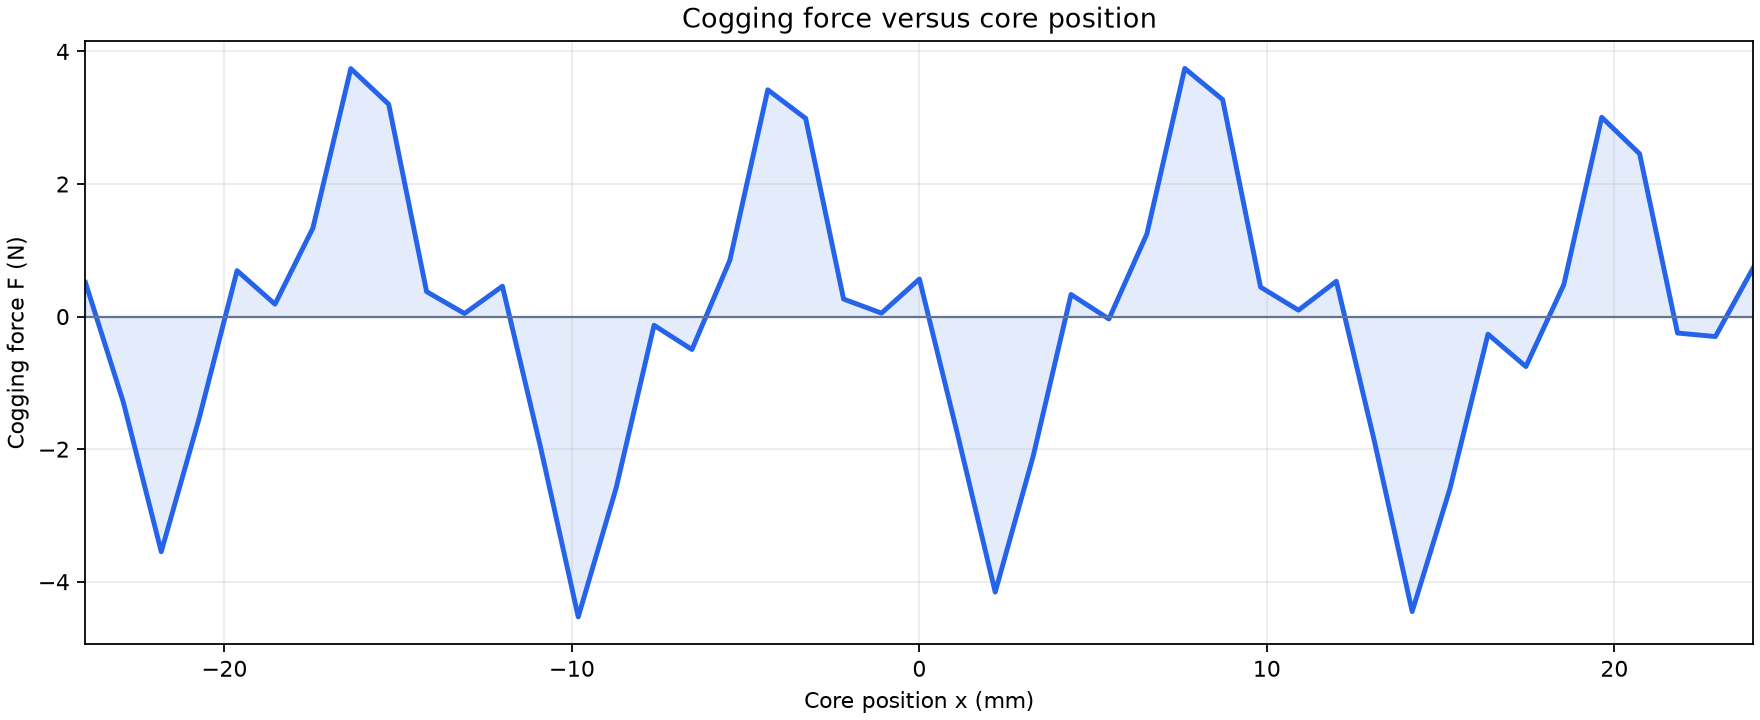
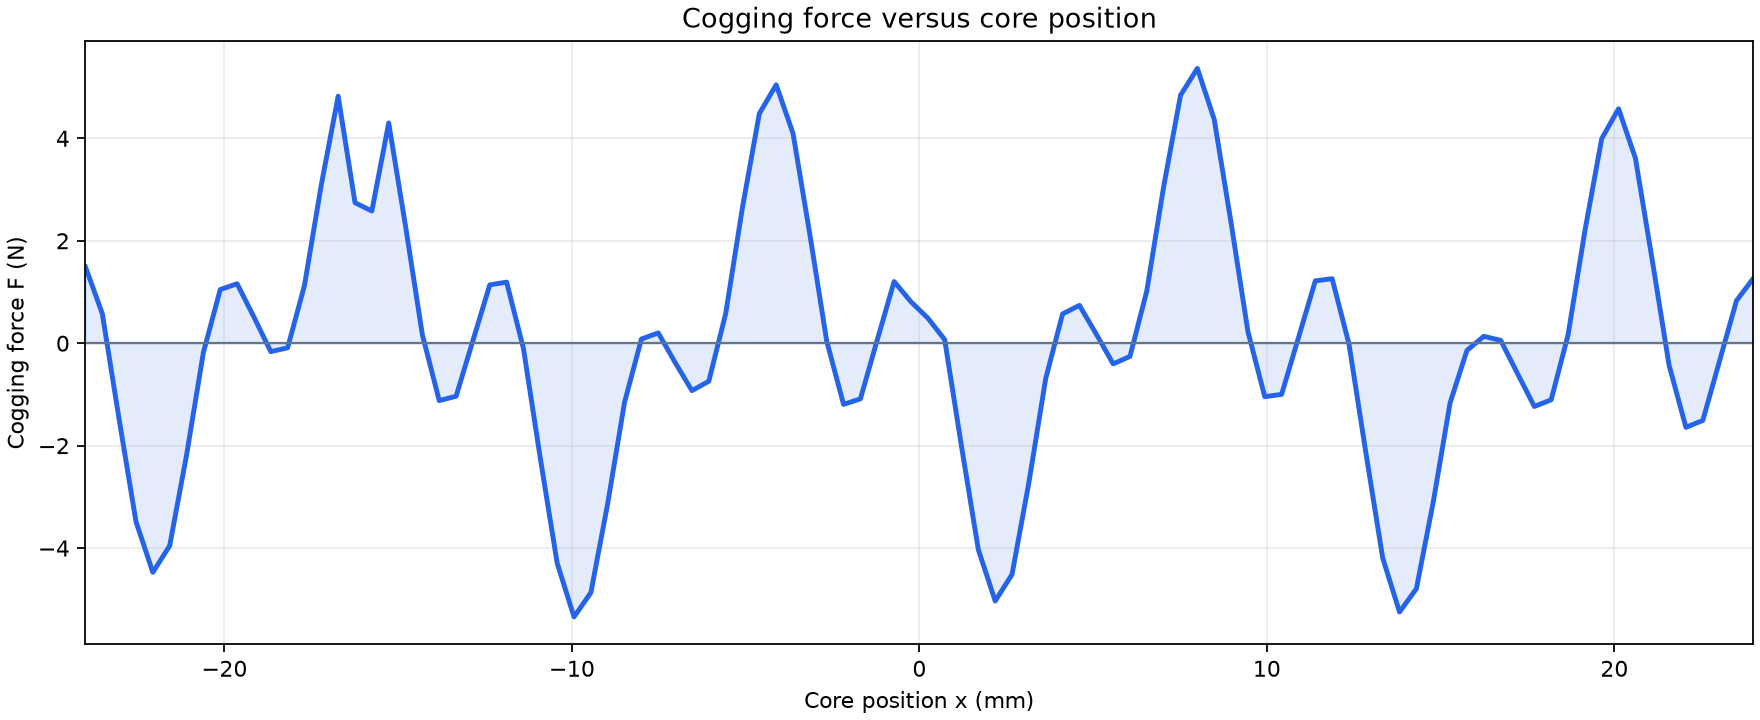
feat: increase cogging animations to 200 frames

diff --git a/halbach_field_n52.html b/halbach_field_n52.html
@@ -47,7 +47,7 @@
     <div class="note">6:6 为 24 mm 磁极对内的 +Z、-Y、-Z、+Y 四段基础 Halbach。独立的周期齿槽力估算采用 DXF 铁芯轮廓并连续叠厚积分：零斜极为 1.726 N 峰峰值，14.04° 为约 0.193 N，26.565° 为理想线性周期模型约 0.0010 N。它优先提升单侧磁通。</div>
     <div class="note"><span class="key">斜极取舍</span>：14.04° 的磁场基波系数约 0.955，适合推力优先；26.565° 的系数约 0.827，适合齿槽力优先。实际残余力由 B-H 曲线、端部磁通、加工与装配误差决定。</div>
     <div class="note">色图由二维磁矢势方程求解：DXF 闭合轮廓在网格内赋予 35W300 的线性 μr≈4000，气隙为 1 mm，磁铁厚度为 3 mm。铁芯绕其中心旋转 180°，齿顶位于磁铁顶面上方 1 mm。求解域随五组磁铁阵列扩展，四周采用远离模型的固定磁矢势边界；铁芯位于画面中心，左右侧磁铁单元数相同，所有磁铁块均绘制轮廓。</div>
-    <div class="note">每种磁铁排布均提供 90 帧动画，展示铁芯按 -24 mm、+24 mm、-24 mm 的顺序往复运动。白色箭头表示计算得到的齿槽力方向，箭头长度随力值绝对值变化，箭头上方显示当前位置与瞬时齿槽力。动画下方曲线给出齿槽力 F 随位置 x 的变化。</div>
+    <div class="note">每种磁铁排布均提供 200 帧动画，展示铁芯按 -24 mm、+24 mm、-24 mm 的顺序往复运动。曲线使用 100 个单程位置点计算。白色箭头表示计算得到的齿槽力方向，箭头长度随力值绝对值变化，箭头上方显示当前位置与瞬时齿槽力。动画下方曲线给出齿槽力 F 随位置 x 的变化。</div>
   </div>
 </main>
 <script type="application/json">

diff --git a/cogging_fdm.py b/cogging_fdm.py
@@ -20,7 +20,9 @@ SINGLE_CORE = "--single-core" in sys.argv
 CORE_OTHER_SIDE = "--core-other-side" in sys.argv
 NO_SIDE = "--no-side" in sys.argv
 ANIMATE = "--animate" in sys.argv
-ANIMATION_FRAMES = int(sys.argv[sys.argv.index("--frames") + 1]) if "--frames" in sys.argv else 90
+ANIMATION_FRAMES = int(sys.argv[sys.argv.index("--frames") + 1]) if "--frames" in sys.argv else 200
+if ANIMATION_FRAMES < 4 or ANIMATION_FRAMES % 2:
+    raise SystemExit("--frames must be an even integer of at least 4")
 MAGNET_GROUPS = int(sys.argv[sys.argv.index("--magnet-groups") + 1]) if "--magnet-groups" in sys.argv else 5
 CORE_CENTER_Y = 18.5
 MAGNET_START = CORE_CENTER_Y - 12.0 * MAGNET_GROUPS

diff --git a/specs/multi-magnet-field-maps/requirements.md b/specs/multi-magnet-field-maps/requirements.md
@@ -23,7 +23,7 @@
 3. THE field-map generator SHALL align the center of the five-group magnet array with the geometric center of the DXF iron core.
 4. THE field-map renderer SHALL draw the outline of every magnet block included in the solution.
 5. THE field-map generator SHALL rotate the DXF iron core by 180 degrees and place the tooth tips 1 mm above the magnet array.
-6. THE field-map generator SHALL export a 90-frame GIF for each field-map scenario with the iron core moving in the sequence -24 mm, +24 mm, -24 mm relative to the magnet array.
+6. THE field-map generator SHALL export a 200-frame GIF for each field-map scenario with the iron core moving in the sequence -24 mm, +24 mm, -24 mm relative to the magnet array.
 7. THE GIF renderer SHALL show a force-direction arrow on the iron core, scale the arrow length by the instantaneous cogging-force magnitude, and display the core position and force value.
 8. THE field-map generator SHALL export a cogging-force versus core-position curve for each GIF scenario.
 

diff --git a/.monkeycode/specs/magnet-skew-14-04/requirements.md b/.monkeycode/specs/magnet-skew-14-04/requirements.md
@@ -17,6 +17,6 @@
 #### Acceptance Criteria
 
 1. THE field-map generator SHALL render one 10:2 no-side-magnet field map with a 14.04 degree skew angle.
-2. THE field-map generator SHALL export one 90-frame animation for the 14.04 degree skew scenario with the core moving in the sequence -24 mm, +24 mm, -24 mm.
+2. THE field-map generator SHALL export one 200-frame animation for the 14.04 degree skew scenario with the core moving in the sequence -24 mm, +24 mm, -24 mm.
 3. THE field-map generator SHALL export one cogging-force curve for the 14.04 degree skew scenario.
 4. WHEN a viewer selects the 14.04 degree skew scenario, THE web page SHALL display the matching field map, animation, force curve, and scenario label.

diff --git a/specs/multi-magnet-field-maps/design.md b/specs/multi-magnet-field-maps/design.md
@@ -11,7 +11,7 @@ Updated: 2026-08-06
 
 - `cogging_fdm.py`：新增有限磁铁阵列参数、无侧片方案和 14.04 度、26.565 度斜贴几何，导出 PNG 场图。
 - `halbach_field_n52.html`：为全部预计算场图提供选择按钮和场景说明。
-- `cogging_fdm.py --animate`：以 90 帧计算有限阵列的移动位置能量导数并导出带齿槽力箭头的 GIF 与力-位置曲线。
+- `cogging_fdm.py --animate`：以 200 帧计算有限阵列的移动位置能量导数并导出带齿槽力箭头的 GIF 与力-位置曲线；曲线使用 100 个单程位置点。
 
 ## Correctness Properties
 

diff --git a/.monkeycode/specs/magnet-skew-14-04/design.md b/.monkeycode/specs/magnet-skew-14-04/design.md
@@ -15,7 +15,7 @@ Updated: 2026-08-06
 ## Correctness Properties
 
 - 斜贴偏移由 `16 mm × tan(14.04°)` 计算。
-- 动画使用 90 帧 `-24 mm → +24 mm → -24 mm` 往复轨迹。
+- 动画使用 200 帧 `-24 mm → +24 mm → -24 mm` 往复轨迹，曲线使用 100 个单程位置点。
 - 页面按钮名称、静态场图、动画和力曲线指向同一个 14.04 度方案。
 
 ## Test Strategy
